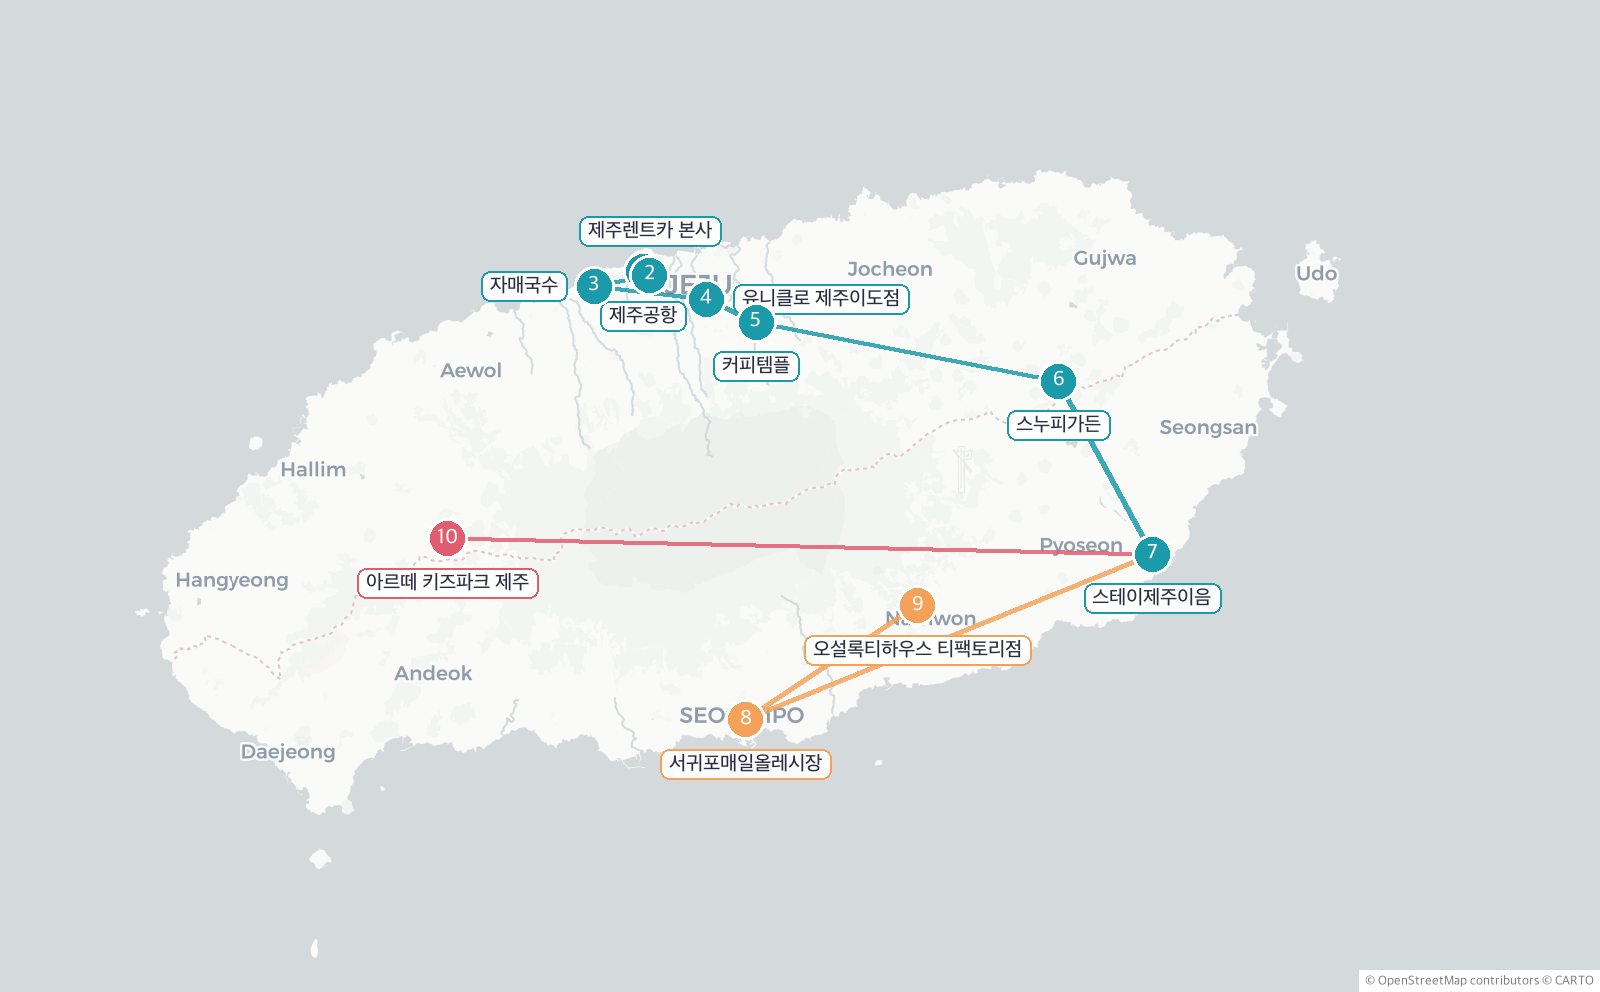
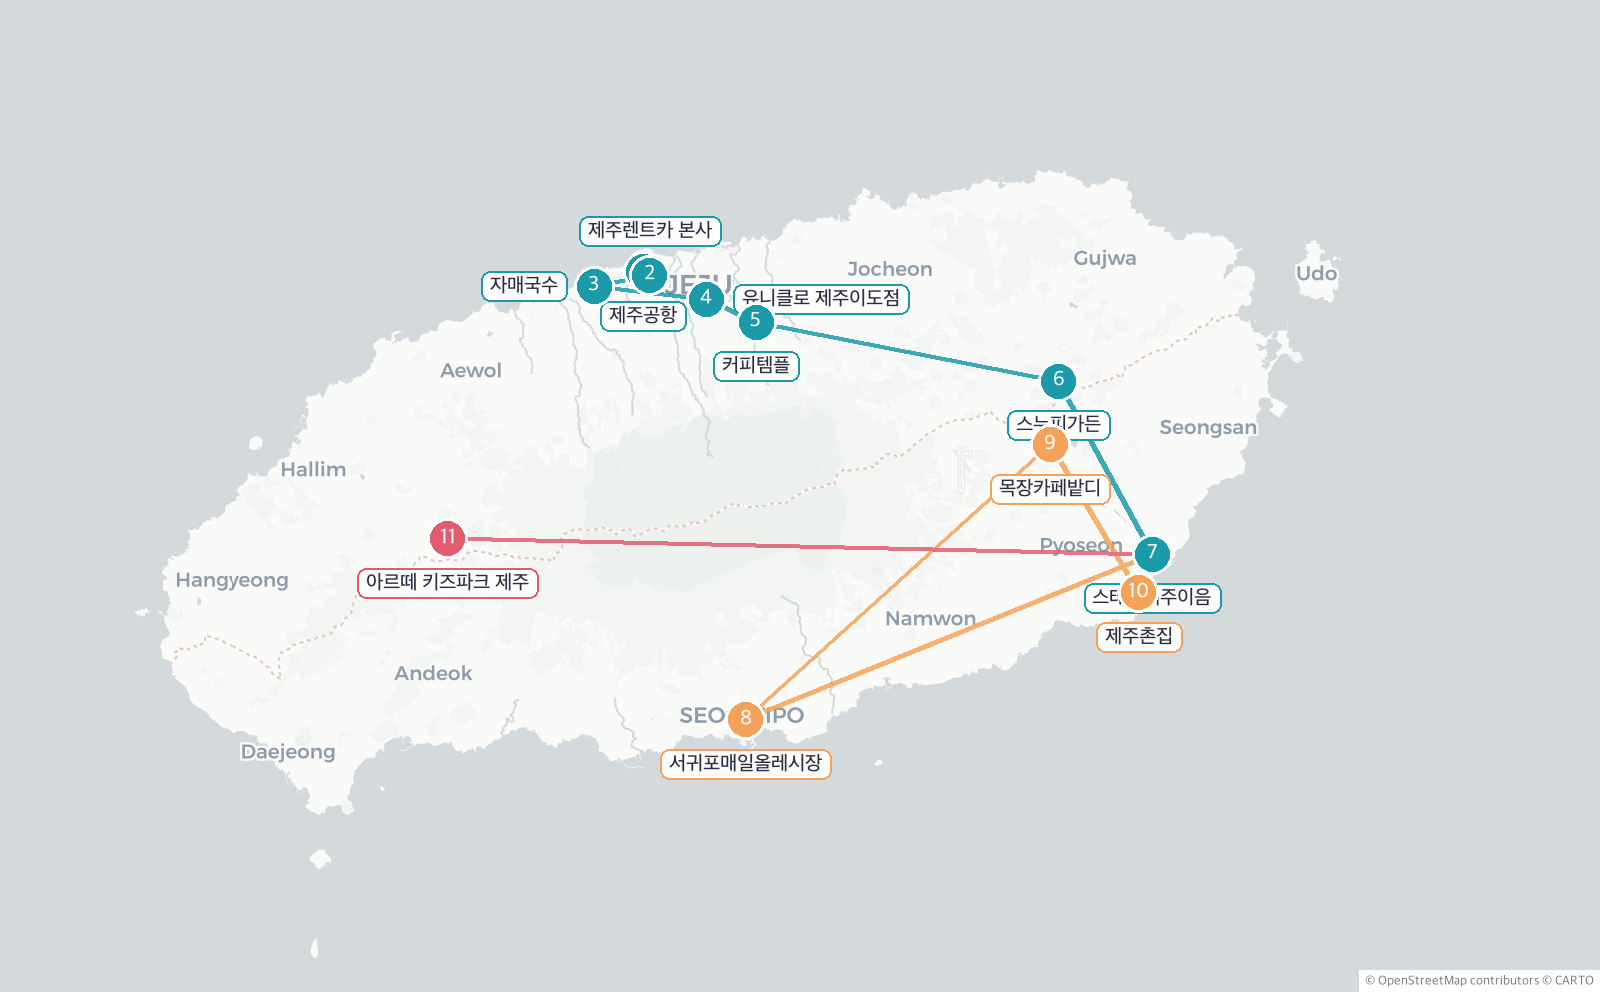
계획표 갱신 2026-07-30 09:42

diff --git a/489c57cd83/index.html b/489c57cd83/index.html
@@ -156,10 +156,10 @@
     <div id="zones" class="zones"></div>
     <div id="map" style="width:100%; height:340px; border-radius:14px; z-index:0"></div>
     <div id="chips" class="chips"></div>
-    <div class="drive">🚗 <span class='d1'>1일차</span> 1→2 <b>7분</b> · 2→3 <b>11분</b> · 3→4 <b>24분</b> · 4→5 <b>12분</b> · 5→6 <b>31분</b> · 6→7 <b>27분</b> <span class='tot'>1시간 52분</span><br><span class='d2'>2일차</span> 7→8 <b>50분</b> · 8→9 <b>31분</b> · 9→7 <b>31분</b> <span class='tot'>1시간 52분</span><br><span class='d3'>3일차</span> 7→10 <b>80분</b> <span class='tot'>1시간 20분</span></div>
+    <div class="drive">🚗 <span class='d1'>1일차</span> 1→2 <b>7분</b> · 2→3 <b>13분</b> · 3→4 <b>23분</b> · 4→5 <b>13분</b> · 5→6 <b>31분</b> · 6→7 <b>27분</b> <span class='tot'>1시간 54분</span><br><span class='d2'>2일차</span> 7→8 <b>50분</b> · 8→9 <b>54분</b> · 9→10 <b>17분</b> · 10→7 <b>8분</b> <span class='tot'>2시간 9분</span><br><span class='d3'>3일차</span> 7→11 <b>80분</b> <span class='tot'>1시간 20분</span></div>
     <script>
     (function(){
-      var pts = [{"n": 1, "id": "airport", "name": "제주공항", "lat": 33.5068398, "lon": 126.492723, "day": 1, "time": "09:00", "addr": "제주특별자치도 제주시 공항로 2", "phone": "1661-2626", "url": "http://place.map.kakao.com/10808261"}, {"n": 2, "id": "rentcar", "name": "제주렌트카 본사", "lat": 33.5049944, "lon": 126.4971834, "day": 1, "time": "10:00", "addr": "제주특별자치도 제주시 용문로 8", "phone": "1588-3301", "url": "http://place.map.kakao.com/26887342"}, {"n": 3, "id": "jamae", "name": "자매국수", "lat": 33.498579, "lon": 126.4591426, "day": 1, "time": "11:00", "addr": "제주특별자치도 제주시 항골남길 46", "phone": "064-746-2222", "url": "http://place.map.kakao.com/21455793"}, {"n": 4, "id": "uniqlo", "name": "유니클로 제주이도점", "lat": 33.4912167, "lon": 126.5362246, "day": 1, "time": "12:30", "addr": "제주특별자치도 제주시 구남로8길 1", "phone": "064-759-8756", "url": "http://place.map.kakao.com/1969411749"}, {"n": 5, "id": "coffee", "name": "커피템플", "lat": 33.4781648, "lon": 126.5702468, "day": 1, "time": "13:45", "addr": "제주특별자치도 제주시 영평길 269", "phone": "070-8806-8051", "url": "http://place.map.kakao.com/99092488"}, {"n": 6, "id": "snoopy", "name": "스누피가든", "lat": 33.4441313, "lon": 126.7781669, "day": 1, "time": "15:20", "addr": "제주특별자치도 제주시 구좌읍 금백조로 930", "phone": "064-805-1118", "url": "http://place.map.kakao.com/852041742"}, {"n": 7, "id": "stay", "name": "스테이제주이음", "lat": 33.3451558, "lon": 126.8423186, "day": 1, "time": "18:00", "addr": "제주특별자치도 서귀포시 표선면 하천로 37", "phone": "0507-1484-1511", "url": "http://place.map.kakao.com/833379597"}, {"n": 8, "id": "olle", "name": "서귀포매일올레시장", "lat": 33.250149, "lon": 126.5632305, "day": 2, "time": "10:30", "addr": "제주특별자치도 서귀포시 중앙로62번길 18", "phone": "064-762-1949", "url": "http://place.map.kakao.com/7938166"}, {"n": 9, "id": "osulloc", "name": "오설록티하우스 티팩토리점", "lat": 33.3156157, "lon": 126.6813823, "day": 2, "time": "14:30", "addr": "제주특별자치도 서귀포시 남원읍 서성로652번길 191", "phone": "", "url": "http://place.map.kakao.com/1536636635"}, {"n": 10, "id": "arte", "name": "아르떼 키즈파크 제주", "lat": 33.3539454, "lon": 126.3585969, "day": 3, "time": "10:50", "addr": "제주특별자치도 제주시 애월읍 월각로 929", "phone": "064-799-7007", "url": "http://place.map.kakao.com/1657397874"}];
+      var pts = [{"n": 1, "id": "airport", "name": "제주공항", "lat": 33.5068398, "lon": 126.492723, "day": 1, "time": "09:00", "addr": "제주특별자치도 제주시 공항로 2", "phone": "1661-2626", "url": "http://place.map.kakao.com/10808261"}, {"n": 2, "id": "rentcar", "name": "제주렌트카 본사", "lat": 33.5049944, "lon": 126.4971834, "day": 1, "time": "10:00", "addr": "제주특별자치도 제주시 용문로 8", "phone": "1588-3301", "url": "http://place.map.kakao.com/26887342"}, {"n": 3, "id": "jamae", "name": "자매국수", "lat": 33.498579, "lon": 126.4591426, "day": 1, "time": "11:00", "addr": "제주특별자치도 제주시 항골남길 46", "phone": "064-746-2222", "url": "http://place.map.kakao.com/21455793"}, {"n": 4, "id": "uniqlo", "name": "유니클로 제주이도점", "lat": 33.4912167, "lon": 126.5362246, "day": 1, "time": "12:30", "addr": "제주특별자치도 제주시 구남로8길 1", "phone": "064-759-8756", "url": "http://place.map.kakao.com/1969411749"}, {"n": 5, "id": "coffee", "name": "커피템플", "lat": 33.4781648, "lon": 126.5702468, "day": 1, "time": "13:45", "addr": "제주특별자치도 제주시 영평길 269", "phone": "070-8806-8051", "url": "http://place.map.kakao.com/99092488"}, {"n": 6, "id": "snoopy", "name": "스누피가든", "lat": 33.4441313, "lon": 126.7781669, "day": 1, "time": "15:20", "addr": "제주특별자치도 제주시 구좌읍 금백조로 930", "phone": "064-805-1118", "url": "http://place.map.kakao.com/852041742"}, {"n": 7, "id": "stay", "name": "스테이제주이음", "lat": 33.3451558, "lon": 126.8423186, "day": 1, "time": "18:00", "addr": "제주특별자치도 서귀포시 표선면 하천로 37", "phone": "0507-1484-1511", "url": "http://place.map.kakao.com/833379597"}, {"n": 8, "id": "olle", "name": "서귀포매일올레시장", "lat": 33.250149, "lon": 126.5632305, "day": 2, "time": "10:30", "addr": "제주특별자치도 서귀포시 중앙로62번길 18", "phone": "064-762-1949", "url": "http://place.map.kakao.com/7938166"}, {"n": 9, "id": "batdi", "name": "목장카페밭디", "lat": 33.4079, "lon": 126.7722163, "day": 2, "time": "14:30", "addr": "제주특별자치도 서귀포시 표선면 번영로 2486", "phone": "0502-5553-3618", "url": "http://place.map.kakao.com/1011635289"}, {"n": 10, "id": "chonjip", "name": "제주촌집", "lat": 33.3229068, "lon": 126.8331378, "day": 2, "time": "18:00", "addr": "제주특별자치도 서귀포시 표선면 표선관정로 127-6", "phone": "064-787-8205", "url": "http://place.map.kakao.com/2058805658"}, {"n": 11, "id": "arte", "name": "아르떼 키즈파크 제주", "lat": 33.3539454, "lon": 126.3585969, "day": 3, "time": "10:50", "addr": "제주특별자치도 제주시 애월읍 월각로 929", "phone": "064-799-7007", "url": "http://place.map.kakao.com/1657397874"}];
       var colors = {"1": "#1b9aaa", "2": "#f4a259", "3": "#e15c6f"};
       // 선은 캔버스로 그린다 (SVG로 그리면 일부 환경에서 색 덩어리로 깨진다)
       var map = L.map('map', {scrollWheelZoom:false, preferCanvas:true});
@@ -310,7 +310,7 @@
 
     <div class="item">
       <div class="time">19:00</div><div class="icon">🛵</div>
-      <div class="body"><div class="t">저녁 · 배달</div><div class="d">숙소에서 배달 주문</div></div>
+      <div class="body"><div class="t">저녁 · 회 포장</div><div class="d">회 포장해 숙소에서</div></div>
     </div>
   </div>
 
@@ -325,9 +325,12 @@
     </div>
     <div class="item">
       <div class="time">14:30</div><div class="icon">🍵</div>
-      <div class="body"><div class="t">오설록티하우스 티팩토리점</div><div class="d">서귀포시 남원읍 서성로652번길 191 · 올레시장에서 31분 · 숙소까지 31분</div></div>
+      <div class="body"><div class="t">목장카페밭디</div><div class="d">서귀포시 표선면 번영로 2486 · <a href="tel:0502-5553-3618">0502-5553-3618</a> · 올레시장에서 54분</div></div>
     </div>
-    <div class="todo"><span class="icon">🍽</span> 저녁 — 추가 예정</div>
+    <div class="item">
+      <div class="time">18:00</div><div class="icon">🍽</div>
+      <div class="body"><div class="t">저녁 · 제주촌집</div><div class="d">서귀포시 표선면 표선관정로 127-6 · <a href="tel:064-787-8205">064-787-8205</a> · 밭디에서 17분 · 숙소까지 8분</div></div>
+    </div>
 
     <div class="item">
       <div class="time">숙박</div><div class="icon">🏠</div>

diff --git a/489c57cd83/print.html b/489c57cd83/print.html
@@ -106,7 +106,7 @@
       <h2>🗺 여행 동선</h2>
       <!-- MAP:START (build.py 자동 생성) -->
       <img src="map.png" alt="제주 여행 동선 지도">
-      <div class="drive">🚗 제주공항→제주렌트카 본사 7분 · 제주렌트카 본사→자매국수 11분 · 자매국수→유니클로 제주이도점 24분 · 유니클로 제주이도점→커피템플 12분 · 커피템플→스누피가든 31분 · 스누피가든→스테이제주이음 27분 · 스테이제주이음→서귀포매일올레시장 50분 · 서귀포매일올레시장→오설록티하우스 티팩토리점 31분 · 오설록티하우스 티팩토리점→스테이제주이음 31분 · 스테이제주이음→아르떼 키즈파크 제주 80분</div>
+      <div class="drive">🚗 제주공항→제주렌트카 본사 7분 · 제주렌트카 본사→자매국수 13분 · 자매국수→유니클로 제주이도점 23분 · 유니클로 제주이도점→커피템플 13분 · 커피템플→스누피가든 31분 · 스누피가든→스테이제주이음 27분 · 스테이제주이음→서귀포매일올레시장 50분 · 서귀포매일올레시장→목장카페밭디 54분 · 목장카페밭디→제주촌집 17분 · 제주촌집→스테이제주이음 8분 · 스테이제주이음→아르떼 키즈파크 제주 80분</div>
     <!-- MAP:END -->
       <div class="legend">
         <span><i class="dot" style="background:var(--day1)"></i>Day 1 이동</span>
@@ -141,15 +141,15 @@
       <div class="it"><div class="tm">13:45</div><div class="ic">☕</div><div class="bd"><div class="t">커피템플</div><div class="d">영평길 269 · 유니클로에서 13분</div></div></div>
       <div class="it"><div class="tm">15:20</div><div class="ic">🐶</div><div class="bd"><div class="t">스누피가든</div><div class="d">구좌읍 금백조로 930 · 커피템플에서 31분</div></div></div>
       <div class="it"><div class="tm">18:00</div><div class="ic">🏠</div><div class="bd"><div class="t">숙소 입실</div><div class="d">스테이제주이음 · 스누피가든에서 27분</div></div></div>
-      <div class="it"><div class="tm">19:00</div><div class="ic">🛵</div><div class="bd"><div class="t">저녁 · 배달</div><div class="d">숙소에서 배달 주문</div></div></div>
+      <div class="it"><div class="tm">19:00</div><div class="ic">🛵</div><div class="bd"><div class="t">저녁 · 회 포장</div><div class="d">회 포장해 숙소에서</div></div></div>
     </div>
 
     <div class="day" style="--dc:var(--day2)">
       <div class="dh"><span class="badge">DAY 2</span><span class="date">8/10 (월)</span></div>
       <div class="todo">🍽 아침 —</div>
       <div class="it"><div class="tm">10:30</div><div class="ic">🛒</div><div class="bd"><div class="t">서귀포매일올레시장</div><div class="d">중앙로62번길 18 · 숙소에서 50분 · 점심 겸</div></div></div>
-      <div class="it"><div class="tm">14:30</div><div class="ic">🍵</div><div class="bd"><div class="t">오설록티하우스 티팩토리</div><div class="d">남원읍 서성로652번길 191 · 올레시장에서 31분</div></div></div>
-      <div class="todo">🍽 저녁 —</div>
+      <div class="it"><div class="tm">14:30</div><div class="ic">🍵</div><div class="bd"><div class="t">목장카페밭디</div><div class="d">표선면 번영로 2486 · 올레시장에서 54분</div></div></div>
+      <div class="it"><div class="tm">18:00</div><div class="ic">🍽</div><div class="bd"><div class="t">저녁 · 제주촌집</div><div class="d">표선관정로 127-6 · 밭디에서 17분</div></div></div>
       <div class="it"><div class="tm">숙박</div><div class="ic">🏠</div><div class="bd"><div class="t">스테이제주이음</div><div class="d">2박째</div></div></div>
     </div>
 
